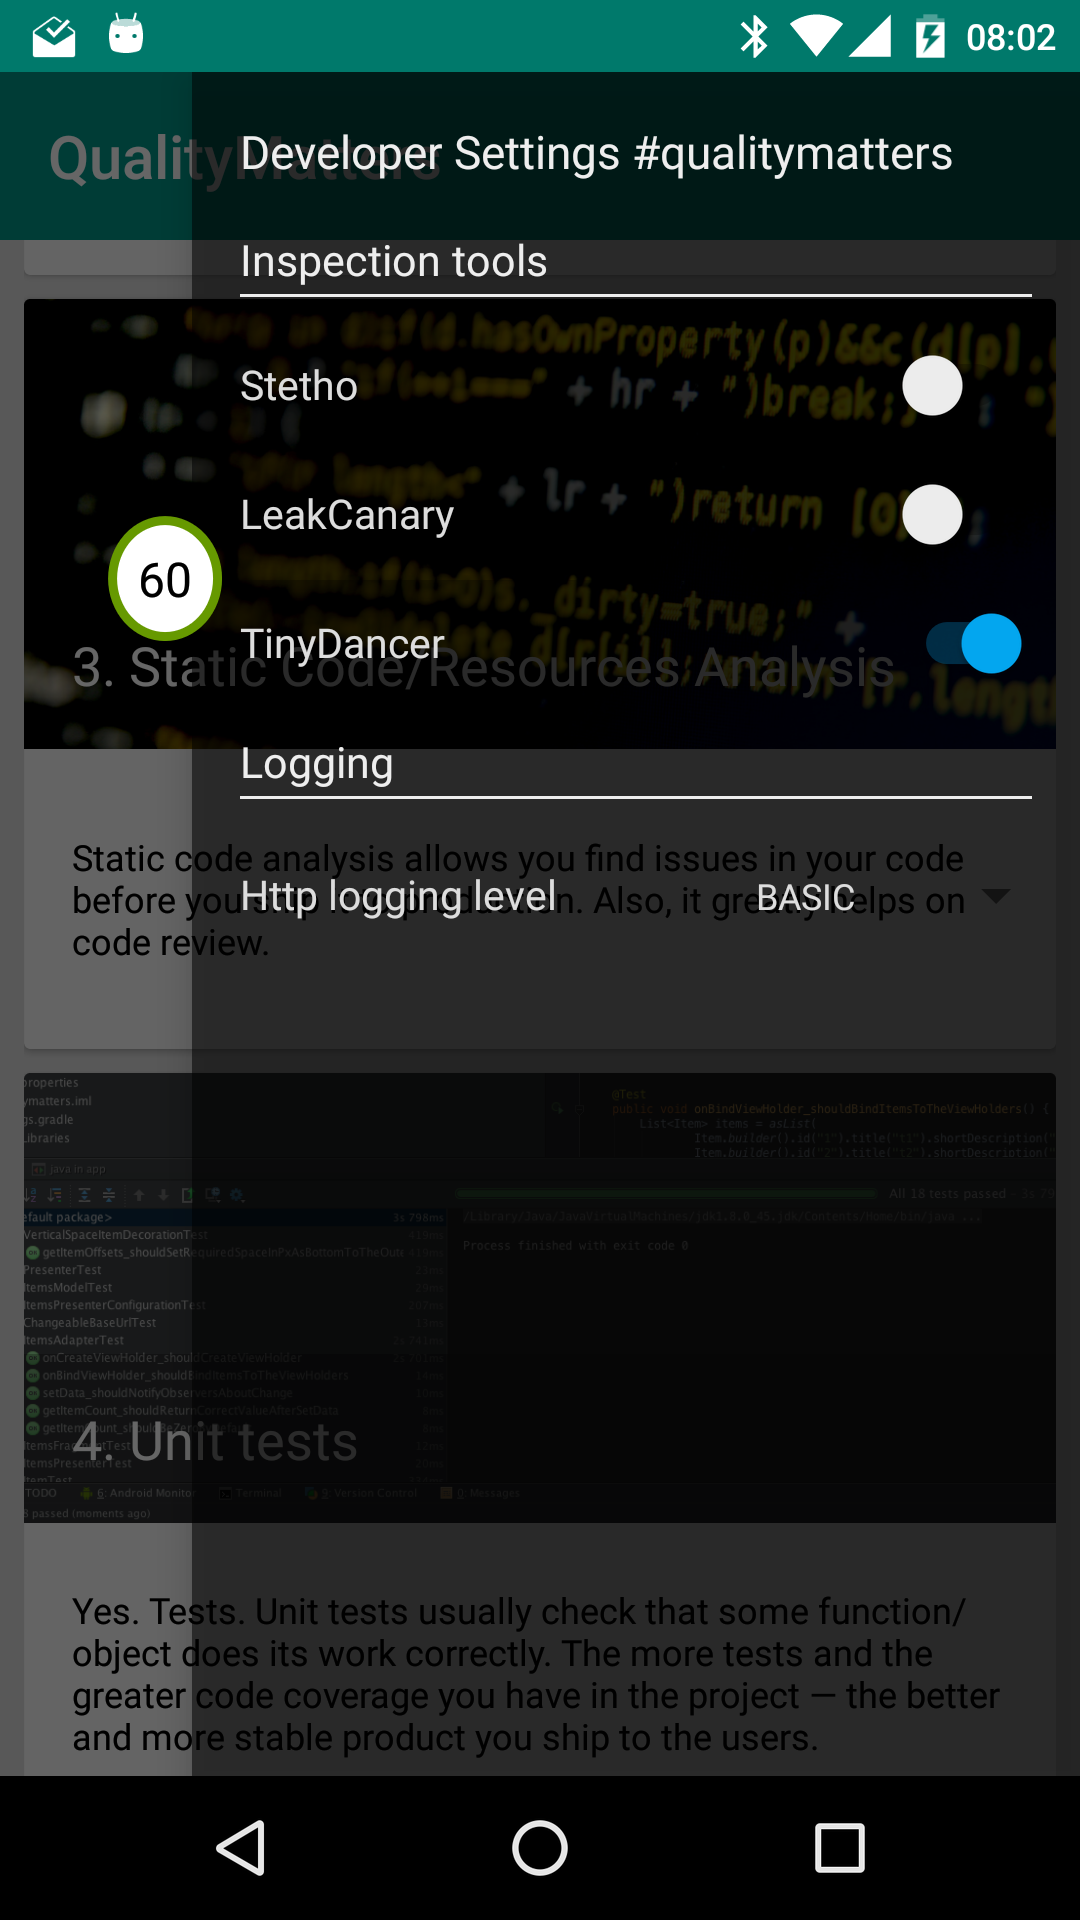
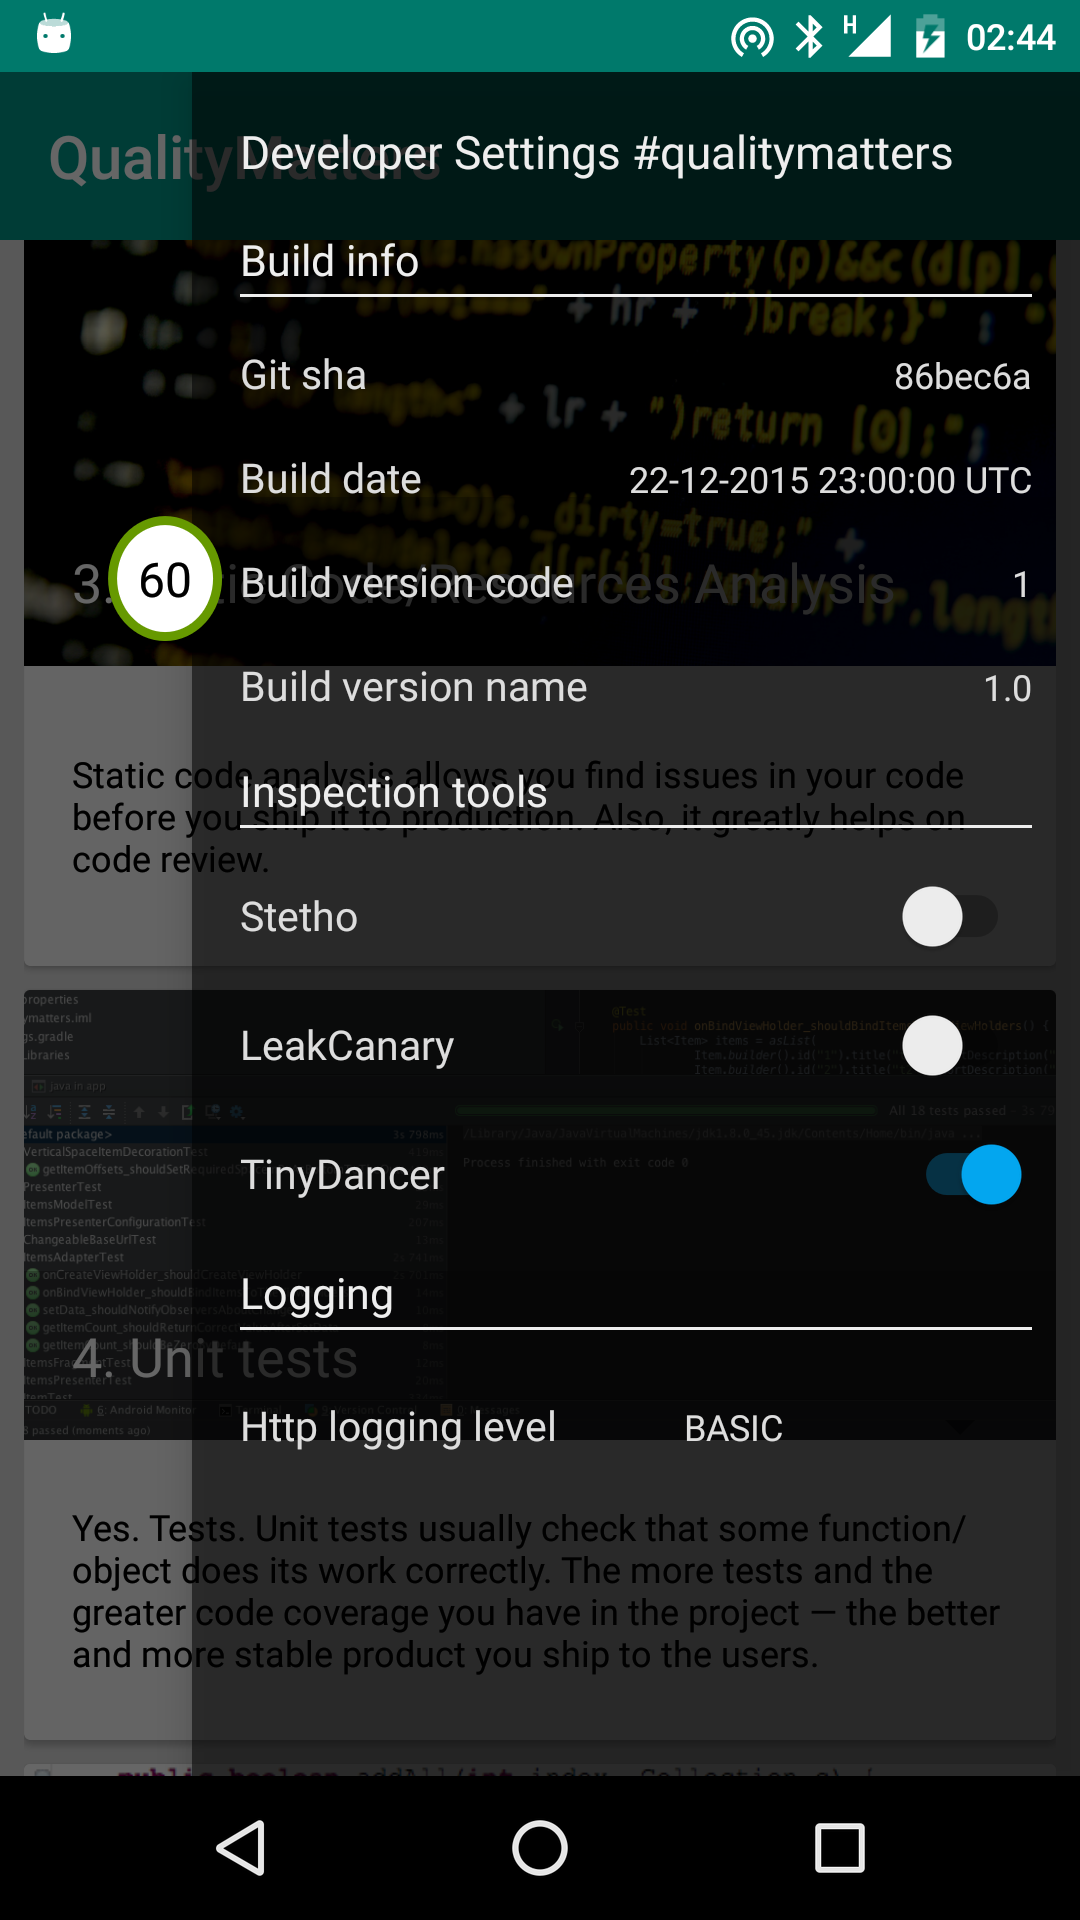
Add build info: git sha, date, version code and version name to the Developer Settings

diff --git a/app/src/debugUnitTests/java/com/artemzin/qualitymatters/developer_settings/DeveloperSettingsModelImplTest.java b/app/src/debugUnitTests/java/com/artemzin/qualitymatters/developer_settings/DeveloperSettingsModelImplTest.java
@@ -38,6 +38,64 @@ public class DeveloperSettingsModelImplTest {
     }
 
     @Test
+    public void getGitSha_shouldNotBeNull() {
+        // We can not check real git commit sha here, so let's just check that it's not null.
+        assertThat(developerSettingsModel.getGitSha()).isNotNull();
+    }
+
+    @Test
+    public void getGitSha_shouldReturnSameResultForSeveralCalls() {
+        String sha1 = developerSettingsModel.getGitSha();
+        String sha2 = developerSettingsModel.getGitSha();
+        String sha3 = developerSettingsModel.getGitSha();
+
+        assertThat(sha1).isEqualTo(sha2).isEqualTo(sha3);
+    }
+
+    @Test
+    public void getBuildDate_shouldNotBeNull() {
+        // We can not check real build date here, so let's just check that it's not null.
+        assertThat(developerSettingsModel.getBuildDate()).isNotNull();
+    }
+
+    @Test
+    public void getBuildDate_shouldReturnSameResultForSeveralCalls() {
+        String buildDate1 = developerSettingsModel.getBuildDate();
+        String buildDate2 = developerSettingsModel.getBuildDate();
+        String buildDate3 = developerSettingsModel.getBuildDate();
+
+        assertThat(buildDate1).isEqualTo(buildDate2).isEqualTo(buildDate3);
+    }
+
+    @Test
+    public void getBuildVersionCode_shouldNotBeNull() {
+        assertThat(developerSettingsModel.getBuildVersionCode()).isNotNull();
+    }
+
+    @Test
+    public void getBuildVersionCode_shouldReturnSameResultForSeveralCalls() {
+        String buildVersionCode1 = developerSettingsModel.getBuildVersionCode();
+        String buildVersionCode2 = developerSettingsModel.getBuildVersionCode();
+        String buildVersionCode3 = developerSettingsModel.getBuildVersionCode();
+
+        assertThat(buildVersionCode1).isEqualTo(buildVersionCode2).isEqualTo(buildVersionCode3);
+    }
+
+    @Test
+    public void getBuildVersionName_shouldNotBeNull() {
+        assertThat(developerSettingsModel.getBuildVersionName()).isNotNull();
+    }
+
+    @Test
+    public void getBuildVersionName_shouldReturnSameResultForSeveralCalls() {
+        String buildVersionName1 = developerSettingsModel.getBuildVersionName();
+        String buildVersionName2 = developerSettingsModel.getBuildVersionName();
+        String buildVersionName3 = developerSettingsModel.getBuildVersionName();
+
+        assertThat(buildVersionName1).isEqualTo(buildVersionName2).isEqualTo(buildVersionName3);
+    }
+
+    @Test
     public void isStethoEnabled_shouldReturnValueFromDeveloperSettings() {
         when(developerSettings.isStethoEnabled()).thenReturn(true);
         assertThat(developerSettingsModel.isStethoEnabled()).isTrue();

diff --git a/app/src/debug/java/com/artemzin/qualitymatters/ui/fragments/DeveloperSettingsFragment.java b/app/src/debug/java/com/artemzin/qualitymatters/ui/fragments/DeveloperSettingsFragment.java
@@ -9,6 +9,7 @@ import android.view.View;
 import android.view.ViewGroup;
 import android.widget.Spinner;
 import android.widget.Switch;
+import android.widget.TextView;
 import android.widget.Toast;
 
 import com.artemzin.qualitymatters.QualityMattersApp;
@@ -33,6 +34,18 @@ public class DeveloperSettingsFragment extends BaseFragment implements Developer
 
     @Inject
     DeveloperSettingsPresenter presenter;
+
+    @Bind(R.id.developer_settings_git_sha_text_view)
+    TextView gitShaTextView;
+
+    @Bind(R.id.developer_settings_build_date_text_view)
+    TextView buildDateTextView;
+
+    @Bind(R.id.developer_settings_build_version_code_text_view)
+    TextView buildVersionCodeTextView;
+
+    @Bind(R.id.developer_settings_build_version_name_text_view)
+    TextView buildVersionNameTextView;
 
     @Bind(R.id.developer_settings_stetho_switch)
     Switch stethoSwitch;
@@ -83,6 +96,42 @@ public class DeveloperSettingsFragment extends BaseFragment implements Developer
     @OnItemSelected(R.id.developer_settings_http_logging_level_spinner)
     void onHttpLoggingLevelChanged(int position) {
         presenter.changeHttpLoggingLevel(((HttpLoggingLevel) httpLoggingLevelSpinner.getItemAtPosition(position)).loggingLevel);
+    }
+
+    @Override
+    @AnyThread
+    public void changeGitSha(@NonNull String gitSha) {
+        runOnUiThreadIfFragmentAlive(() -> {
+            assert gitShaTextView != null;
+            gitShaTextView.setText(gitSha);
+        });
+    }
+
+    @Override
+    @AnyThread
+    public void changeBuildDate(@NonNull String date) {
+        runOnUiThreadIfFragmentAlive(() -> {
+            assert buildDateTextView != null;
+            buildDateTextView.setText(date);
+        });
+    }
+
+    @Override
+    @AnyThread
+    public void changeBuildVersionCode(@NonNull String versionCode) {
+        runOnUiThreadIfFragmentAlive(() -> {
+            assert buildVersionCodeTextView != null;
+            buildVersionCodeTextView.setText(versionCode);
+        });
+    }
+
+    @Override
+    @AnyThread
+    public void changeBuildVersionName(@NonNull String versionName) {
+        runOnUiThreadIfFragmentAlive(() -> {
+            assert buildVersionNameTextView != null;
+            buildVersionNameTextView.setText(versionName);
+        });
     }
 
     @Override

diff --git a/app/src/debugUnitTests/java/com/artemzin/qualitymatters/ui/presenters/DeveloperSettingsPresenterTest.java b/app/src/debugUnitTests/java/com/artemzin/qualitymatters/ui/presenters/DeveloperSettingsPresenterTest.java
@@ -38,6 +38,38 @@ public class DeveloperSettingsPresenterTest {
     }
 
     @Test
+    public void bindView_shouldSendGitShaToTheView() {
+        when(developerSettingsModel.getGitSha()).thenReturn("test git sha");
+
+        developerSettingsPresenter.bindView(developerSettingsView);
+        verify(developerSettingsView).changeGitSha("test git sha");
+    }
+
+    @Test
+    public void bindView_shouldSendBuildDateToTheView() {
+        when(developerSettingsModel.getBuildDate()).thenReturn("test build date");
+
+        developerSettingsPresenter.bindView(developerSettingsView);
+        verify(developerSettingsView).changeBuildDate("test build date");
+    }
+
+    @Test
+    public void bindView_shouldSendBuildVersionCodeToTheView() {
+        when(developerSettingsModel.getBuildVersionCode()).thenReturn("test build version code");
+
+        developerSettingsPresenter.bindView(developerSettingsView);
+        verify(developerSettingsView).changeBuildVersionCode("test build version code");
+    }
+
+    @Test
+    public void bindView_shouldSendBuildVersionNameToTheView() {
+        when(developerSettingsModel.getBuildVersionName()).thenReturn("test build version name");
+
+        developerSettingsPresenter.bindView(developerSettingsView);
+        verify(developerSettingsView).changeBuildVersionName("test build version name");
+    }
+
+    @Test
     public void bindView_shouldSendStethoEnabledStateToTheView() {
         when(developerSettingsModel.isStethoEnabled()).thenReturn(true);
 

diff --git a/app/src/debug/java/com/artemzin/qualitymatters/developer_settings/DeveloperSettingsModelImpl.java b/app/src/debug/java/com/artemzin/qualitymatters/developer_settings/DeveloperSettingsModelImpl.java
@@ -3,6 +3,7 @@ package com.artemzin.qualitymatters.developer_settings;
 import android.support.annotation.NonNull;
 import android.util.DisplayMetrics;
 
+import com.artemzin.qualitymatters.BuildConfig;
 import com.artemzin.qualitymatters.QualityMattersApp;
 import com.codemonkeylabs.fpslibrary.TinyDancer;
 import com.facebook.stetho.Stetho;
@@ -53,6 +54,26 @@ public class DeveloperSettingsModelImpl implements DeveloperSettingModel {
         this.okHttpClient = okHttpClient;
         this.httpLoggingInterceptor = httpLoggingInterceptor;
         this.leakCanaryProxy = leakCanaryProxy;
+    }
+
+    @NonNull
+    public String getGitSha() {
+        return BuildConfig.GIT_SHA;
+    }
+
+    @NonNull
+    public String getBuildDate() {
+        return BuildConfig.BUILD_DATE;
+    }
+
+    @NonNull
+    public String getBuildVersionCode() {
+        return String.valueOf(BuildConfig.VERSION_CODE);
+    }
+
+    @NonNull
+    public String getBuildVersionName() {
+        return BuildConfig.VERSION_NAME;
     }
 
     public boolean isStethoEnabled() {

diff --git a/app/src/debug/java/com/artemzin/qualitymatters/ui/presenters/DeveloperSettingsPresenter.java b/app/src/debug/java/com/artemzin/qualitymatters/ui/presenters/DeveloperSettingsPresenter.java
@@ -18,6 +18,11 @@ public class DeveloperSettingsPresenter extends Presenter<DeveloperSettingsView>
     @Override
     public void bindView(@NonNull DeveloperSettingsView view) {
         super.bindView(view);
+
+        view.changeGitSha(developerSettingsModel.getGitSha());
+        view.changeBuildDate(developerSettingsModel.getBuildDate());
+        view.changeBuildVersionCode(developerSettingsModel.getBuildVersionCode());
+        view.changeBuildVersionName(developerSettingsModel.getBuildVersionName());
         view.changeStethoState(developerSettingsModel.isStethoEnabled());
         view.changeLeakCanaryState(developerSettingsModel.isLeakCanaryEnabled());
         view.changeTinyDancerState(developerSettingsModel.isTinyDancerEnabled());

diff --git a/app/src/debug/java/com/artemzin/qualitymatters/ui/views/DeveloperSettingsView.java b/app/src/debug/java/com/artemzin/qualitymatters/ui/views/DeveloperSettingsView.java
@@ -8,6 +8,18 @@ import com.squareup.okhttp.logging.HttpLoggingInterceptor;
 public interface DeveloperSettingsView {
 
     @AnyThread
+    void changeGitSha(@NonNull String gitSha);
+
+    @AnyThread
+    void changeBuildDate(@NonNull String date);
+
+    @AnyThread
+    void changeBuildVersionCode(@NonNull String versionCode);
+
+    @AnyThread
+    void changeBuildVersionName(@NonNull String versionName);
+
+    @AnyThread
     void changeStethoState(boolean enabled);
 
     @AnyThread
